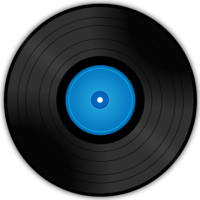
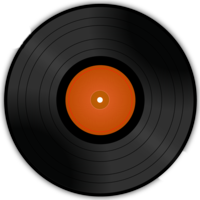
appearance improved

diff --git a/mixer/mainwindow.cpp b/mixer/mainwindow.cpp
@@ -18,9 +18,14 @@ MainWindow::MainWindow(QWidget *parent) :
     QString filename = QDir::currentPath();
     filename.append("/../mixer/disc.png");
     QImage image(filename);
+    discImg[0] = new QGraphicsPixmapItem(QPixmap::fromImage(image));
+
+    filename = QDir::currentPath();
+    filename.append("/../mixer/disc2.png");
+    QImage image2(filename);
+    discImg[1] = new QGraphicsPixmapItem(QPixmap::fromImage(image2));
 
     for(int i = 0; i < 2; i++) {
-        discImg[i] = new QGraphicsPixmapItem(QPixmap::fromImage(image));
         discImg[i]->setTransformationMode(Qt::SmoothTransformation);
         discImg[i]->setTransformOriginPoint(100, 100);
         disc[i] = new Disc();
